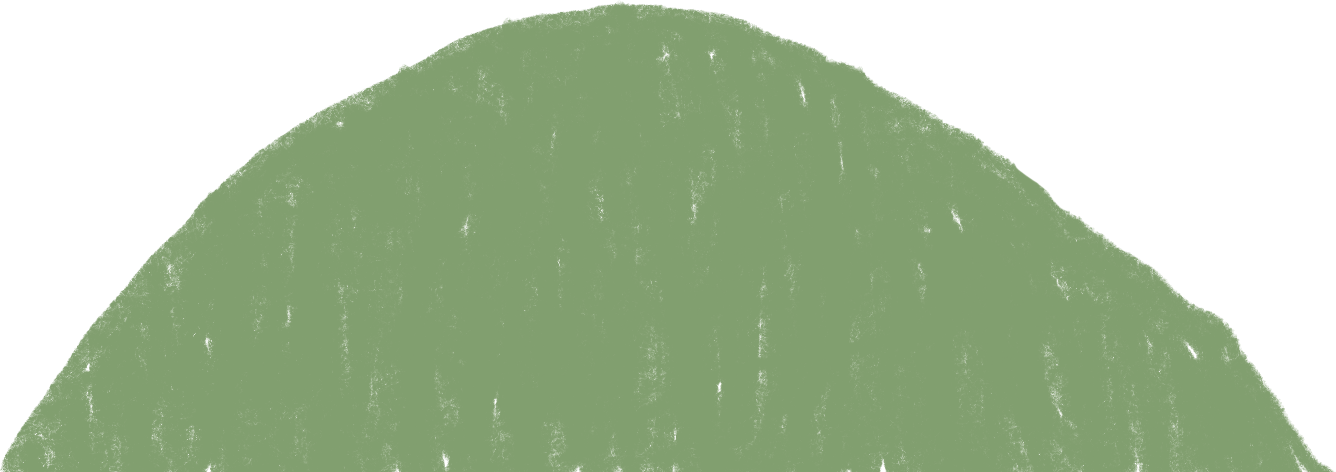
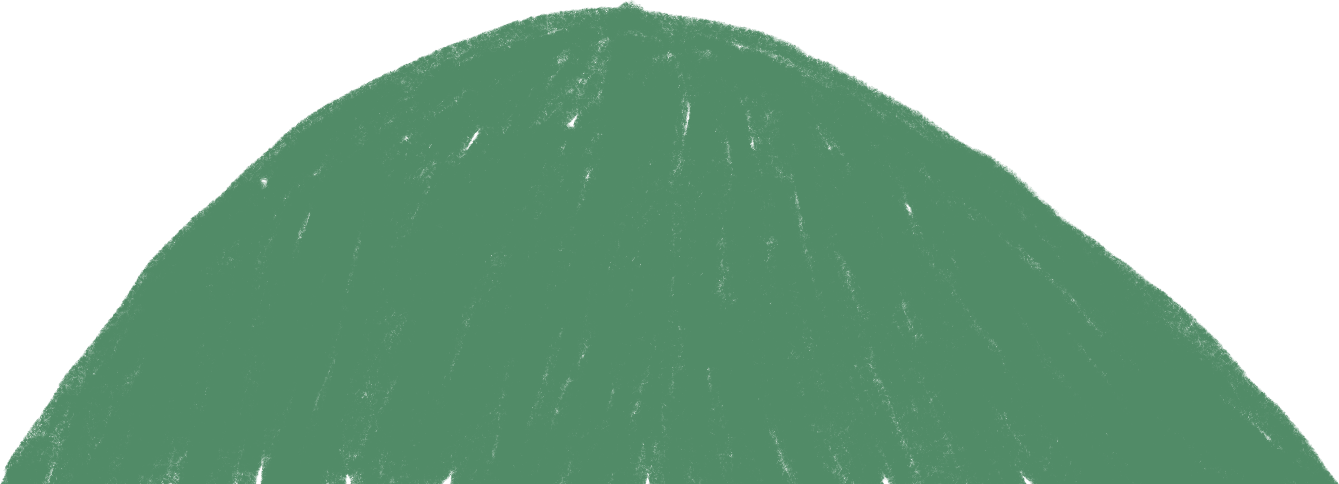
Fuck with the hills a lot

diff --git a/game.js b/game.js
@@ -175,7 +175,7 @@
         noteSprites.push($("note" + i));
     }
     let hillSprites = [];
-    for (let i = 1; i <= 5; i++) {
+    for (let i = 1; i <= 4; i++) {
         hillSprites.push($("hill" + i));
     }
     let mtnSprites = [];
@@ -536,32 +536,35 @@
     const HILL_ZSCALE = 4;
     function makeHill() {
         let sprite = pickRandom(hillSprites);
+        let height = getRandom(0.20, 0.375);
+        let scale = hillSprites[0].height/(height*canvas_height);
         let n = new SimpleSprite({
             p: new Vec2(game.nextHill, -GROUND_HEIGHT),
             sprite: sprite,
             layer: -1 + getRandom(-0.1, 0.1), // XXX too far forward?
             zscale: HILL_ZSCALE,
-            scale: 1.5,
+            scale: scale,
             hflip: randBool(),
         });
 
-        game.nextHill += getRandom(0.25, 0.5)*n.width;
+        game.nextHill += getRandom(0.35, 0.7)*n.width;
         game.noobs.push(n);
     }
 
     const MTN_ZSCALE = HILL_ZSCALE*HILL_ZSCALE;
     function makeMtn() {
         let sprite = pickRandom(mtnSprites);
-        console.log(mtnSprites);
+        let height = 0.775 * getRandom(0.9, 1.1);
+        let scale = mtnSprites[2].height/(height*canvas_height);
         let n = new SimpleSprite({
             p: new Vec2(game.nextMtn, -GROUND_HEIGHT),
             sprite: sprite,
             layer: -2 + getRandom(-0.1, 0.1), // XXX too far forward?
             zscale: MTN_ZSCALE,
-            scale: 2.25,
-            globalAlpha: 0.58,
+            scale: scale,
+            globalAlpha: 0.5,
         });
-        game.nextMtn += getRandom(0.25, 0.5)*n.width;
+        game.nextMtn += getRandom(0.25, 0.65)*n.width;
         game.noobs.push(n);
     }
 
@@ -702,7 +705,8 @@
         });
         let n = game.noobs.length;
         game.noobs = game.noobs.filter(function (noob) {
-            return noob.p.x > game.birb.p.x/noob.zscale - canvas_width;
+            let width = noob.width ?? 0;
+            return noob.p.x + width > game.birb.p.x/noob.zscale - canvas_width;
         });
     }
 
